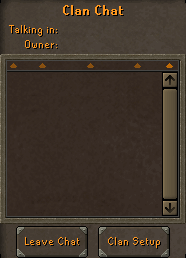
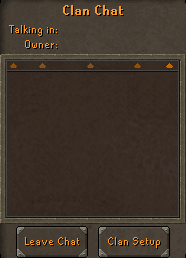
Adjusted scroll bar to take height as an input. Added scrollbar to the clan chat panel

Changed region(s): [[0.8602, 0.2791, 0.9677, 0.8372]]

diff --git a/src/ui/scroll-window.js b/src/ui/scroll-window.js
@@ -2,6 +2,25 @@ export class ScrollWindow extends Phaser.Scene {
     name = "";
     characterData;
 
+    // Input data
+    data = {
+        x: 0,
+        y: 0,
+        width: 0,
+        height: 0,
+        numColumns: 0,
+        padding: 0,
+        objects: [],
+    };
+
+    listHeight = 0;
+
+    // Images
+    scrollHeader;
+    scrollFooter;
+    scrollBackground;
+    scrollButton;
+
     constructor(name) {
         super("scroll-window" + name);
 
@@ -12,50 +31,101 @@ export class ScrollWindow extends Phaser.Scene {
         this.characterData = characterData;
     }
 
-    // Objects passed in need the setX, setY, setVisible functions available
-    addObjects(x, y, width, numColumns, objects) {
-        if (objects.length > 0) {
-            // Add scroll bar and button
-            let scrollBar = this.add
-                .image(width, 0, "scroll-bar")
-                .setDepth(2)
-                .setOrigin(0, 0);
-            let scrollHeaderHeight = 16;
-            let scrollButton = this.add
-                .image(width, scrollHeaderHeight, "scroll-button")
-                .setDepth(2)
-                .setOrigin(0, 0);
+    addObject(object) {
+        this.data.objects.push(object);
+    }
 
+    setValues(data) {
+        this.data.x = data.x;
+        this.data.y = data.y;
+        this.data.width = data.width;
+        this.data.height = data.height;
+        this.data.numColumns = data.numColumns;
+        this.data.padding = data.padding;
+        this.data.objects = data.objects;
+    }
+
+    // Objects passed in need the setX, setY, setVisible functions available
+    addObjects(data) {
+        if (data.objects.length > 0) {
+            this.setValues(data);
+            this.refresh();
+        }
+    }
+
+    refresh(data = this.data) {
+        this.setValues(data);
+
+        // Destroy previous scroll bar if it exists
+        if (this.scrollHeader != undefined) {
+            this.scrollHeader.destroy();
+            this.scrollFooter.destroy();
+            this.scrollBackground.destroy();
+            this.scrollButton.destroy();
+        }
+
+        // Add scroll bar images
+        this.scrollHeader = this.add
+            .image(data.width, 0, "scroll-header")
+            .setDepth(4)
+            .setOrigin(0, 0);
+        let scrollHeaderHeight = this.scrollHeader.displayHeight;
+
+        this.scrollFooter = this.add
+            .image(data.width, data.height - scrollHeaderHeight, "scroll-footer")
+            .setDepth(4)
+            .setOrigin(0, 0);
+
+        this.scrollBackground = this.add
+            .image(data.width, scrollHeaderHeight, "scroll-background")
+            .setDepth(3)
+            .setOrigin(0, 0);
+
+        this.scrollButton = this.add
+            .image(data.width, scrollHeaderHeight, "scroll-button")
+            .setDepth(4)
+            .setOrigin(0, 0);
+
+        // Set default scaling based on height input, may change below based on list height
+        this.scrollButton.displayHeight =
+            data.height - this.scrollHeader.displayHeight * 2;
+        this.scrollBackground.displayHeight =
+            data.height - this.scrollHeader.displayHeight * 2;
+
+        // Create scroll bar if needed
+        if (data.objects.length > 0) {
             // Position objects
             let xInit = 30,
                 yInit = 0,
                 row = 0,
                 column = 0;
-            let xDiff = (width - 20) / numColumns;
-            let yDiff = 35 + objects[0].displayHeight;
+            let xDiff = (data.width - 20) / data.numColumns;
+            let yDiff = data.padding + data.objects[0].displayHeight;
 
-            for (let i = 0; i < objects.length; i++) {
-                objects[i].setX(xInit + xDiff * column);
-                objects[i].setY(yInit + yDiff * row);
-                objects[i].setVisible(true);
+            for (let i = 0; i < data.objects.length; i++) {
+                data.objects[i].setX(xInit + xDiff * column);
+                data.objects[i].setY(yInit + yDiff * row);
+                data.objects[i].setVisible(true);
                 column++;
 
                 // Go to next row
-                if (column >= numColumns) {
+                if (column >= data.numColumns) {
                     column = 0;
                     row++;
                 }
             }
 
             // Stretch scroll button depending on # objects
-            let lastObj = objects[objects.length - 1];
-            let listHeight = lastObj.y + lastObj.displayHeight;
-            let scrollBarHeight = scrollBar.displayHeight;
+            let lastObj = data.objects[data.objects.length - 1];
+            this.listHeight = lastObj.y + lastObj.displayHeight;
 
             // Check if scrolling needed
-            if (listHeight > scrollBarHeight) {
-                // Scale the button image down
-                scrollButton.scaleY = scrollBarHeight / listHeight;
+            if (this.listHeight > data.height) {
+                // Scale the button image and background down
+                this.scrollButton.scaleY = data.height / this.listHeight;
+                this.scrollBackground.displayHeight =
+                    data.height - this.scrollHeader.displayHeight * 2;
+                let scrollButtonHeight = this.scrollButton.displayHeight;
 
                 // Shrink scroll distance from default 100 pixels
                 let delta = 30;
@@ -63,42 +133,60 @@ export class ScrollWindow extends Phaser.Scene {
                 // Make scroll button evenly divisible so it will fit properly at the top/bottom
                 let deltaOffset =
                     Math.floor(
-                        scrollBarHeight -
-                            scrollHeaderHeight * 2 -
-                            scrollButton.displayHeight
+                        data.height - scrollHeaderHeight * 2 - scrollButtonHeight
                     ) % delta;
                 let negDelta = -1 * delta + deltaOffset;
                 let posDelta = delta - deltaOffset;
 
                 // Scale the scroll speed of the objects based on list size
-                let objScrollSpeed = (1.2 * listHeight) / scrollBarHeight;
+                let objScrollSpeed = (1.2 * this.listHeight) / data.height;
 
                 // Move scroll button & objects
                 this.input.on("wheel", (pointer, gameObjects, deltaX, deltaY, deltaZ) => {
-                    if (deltaY > 0) {
-                        deltaY = posDelta;
-                    } else if (deltaY < 0) {
-                        deltaY = negDelta;
-                    }
+                    if (this.listHeight > this.data.height) {
+                        if (deltaY > 0) {
+                            deltaY = posDelta;
+                        } else if (deltaY < 0) {
+                            deltaY = negDelta;
+                        }
 
-                    // Check top/bottom bounds
-                    if (
-                        (deltaY < 0 && scrollButton.y + deltaY >= scrollHeaderHeight) ||
-                        (deltaY > 0 &&
-                            scrollButton.y + scrollButton.displayHeight + deltaY <=
-                                scrollBarHeight - scrollHeaderHeight)
-                    ) {
-                        // Scroll objects faster than scroll bar
-                        scrollButton.y += deltaY;
-                        objects.forEach((object) => {
-                            object.setY(object.y - deltaY * objScrollSpeed);
-                        });
+                        // Check top/bottom bounds
+                        if (
+                            (deltaY < 0 &&
+                                this.scrollButton.y + deltaY >= scrollHeaderHeight) ||
+                            (deltaY > 0 &&
+                                this.scrollButton.y + scrollButtonHeight + deltaY <=
+                                    this.scrollFooter.y)
+                        ) {
+                            // Scroll objects faster than scroll bar
+                            this.scrollButton.y += deltaY;
+                            data.objects.forEach((object) => {
+                                object.setY(object.y - deltaY * objScrollSpeed);
+                            });
+                        }
                     }
                 });
             }
 
             // Constrain view
-            this.cameras.main.setViewport(x, y, width + xInit, scrollBar.displayHeight);
+            this.cameras.main.setViewport(
+                data.x,
+                data.y,
+                data.width + xInit,
+                data.height
+            );
+        }
+    }
+
+    setVisible(isVisible) {
+        this.data.objects.forEach((obj) => {
+            obj.setVisible(isVisible);
+        });
+        if (this.scrollButton != undefined) {
+            this.scrollHeader.visible = isVisible;
+            this.scrollFooter.visible = isVisible;
+            this.scrollBackground.visible = isVisible;
+            this.scrollButton.visible = isVisible;
         }
     }
 }

diff --git a/src/ui/clan.js b/src/ui/clan.js
@@ -3,6 +3,7 @@ import { CONSTANTS } from "../constants/constants.js";
 // Clan members function as autoclickers
 export class Clan {
     scene;
+    scrollWindow;
 
     // Pointer to cookies, stores clan name and member names
     clanCookies;
@@ -13,10 +14,16 @@ export class Clan {
     clanNameText;
     clanMembers = [];
 
-    constructor(scene) {
+    constructor(scene, scrollWindow) {
         this.scene = scene;
+        this.scrollWindow = scrollWindow;
         this.characterData = scene.characterData;
         this.clanCookies = this.characterData.clan;
+
+        // Add self to clan members
+        if (this.clanCookies.members.length == 0) {
+            this.clanCookies.members.push(this.characterData.name);
+        }
 
         // Update and show clan info on startup
         this.refreshClan();
@@ -42,7 +49,7 @@ export class Clan {
             startY = 280,
             yDiff = 18;
         this.clanCookies.members.forEach((member, index) => {
-            let text = this.scene.add
+            let text = this.scrollWindow.add
                 .text(startX, startY + index * yDiff, member, {
                     font: "16px runescape",
                 })
@@ -72,12 +79,24 @@ export class Clan {
         // Hide if clan tab is not selected
         let show = this.scene.currentPanel == CONSTANTS.PANEL.CLAN;
         textObj.setVisible(show);
+
+        this.scrollWindow.addObject(textObj);
     }
 
     show(isVisible) {
+        this.scrollWindow.refresh({
+            x: 535,
+            y: 280,
+            width: 175,
+            height: 140,
+            numColumns: 1,
+            padding: 10,
+            objects: this.clanMembers,
+        });
         if (isVisible) {
             this.scene.currentPanel = CONSTANTS.PANEL.CLAN;
         }
+        this.scrollWindow.setVisible(isVisible);
         this.clanMembers.forEach((member) => {
             member.visible = isVisible;
         });

diff --git a/src/ui/dashboard.js b/src/ui/dashboard.js
@@ -2,6 +2,7 @@ import { CONSTANTS, FONTS } from "../constants/constants.js";
 import { Inventory } from "./inventory.js";
 import { Equipment } from "./equipment.js";
 import { Clan } from "./clan.js";
+import { ScrollWindow } from "./scroll-window.js";
 import { calcLevel } from "../utilities.js";
 
 export class DashboardScene extends Phaser.Scene {
@@ -49,6 +50,7 @@ export class DashboardScene extends Phaser.Scene {
         button: {},
         panel: {},
         obj: {},
+        scrollWindow: {},
     };
 
     // Save data
@@ -350,12 +352,30 @@ export class DashboardScene extends Phaser.Scene {
             .on("pointerdown", () => {
                 this.showClanChat(true);
             });
+
+        // Add scrollable window for clan members
+        if (!Object.keys(this.clan.scrollWindow).length) {
+            this.clan.scrollWindow = new ScrollWindow("clans");
+            this.scene.add(
+                "scroll-window",
+                this.clan.scrollWindow,
+                true,
+                this.characterData
+            );
+        }
+
         // Clear out and reinstatiate clan members
         if (Object.entries(this.clan.obj).length) {
             this.clan.obj.destroy();
         }
-        this.clan.obj = new Clan(this);
+        this.clan.obj = new Clan(this, this.clan.scrollWindow);
         this.showClanChat(false);
+
+        // Scene destructor
+        this.events.on("shutdown", () => {
+            // Remove scroll window scene
+            this.clan.scrollWindow.setVisible(false);
+        });
     }
 
     showSkills(isVisible) {

diff --git a/src/scenes/load.js b/src/scenes/load.js
@@ -125,7 +125,9 @@ export class LoadScene extends Phaser.Scene {
         this.load.image("clan-panel", "src/assets/ui/ClanPanel.png");
         this.load.image("clan-button", "src/assets/ui/buttons/ClanButton.png");
         this.load.image("right-click-menu", "src/assets/ui/RightClickMenu.png");
-        this.load.image("scroll-bar", "src/assets/ui/ScrollBar.png");
+        this.load.image("scroll-background", "src/assets/ui/ScrollBackground.png");
+        this.load.image("scroll-header", "src/assets/ui/ScrollHeader.png");
+        this.load.image("scroll-footer", "src/assets/ui/ScrollFooter.png");
         this.load.image("scroll-button", "src/assets/ui/ScrollButton.png");
 
         // Load all targets in target manifest

diff --git a/src/scenes/shop.js b/src/scenes/shop.js
@@ -250,8 +250,16 @@ export class ShopScene extends Phaser.Scene {
             }
         }
 
-        // Attach to the correct columns in the scroll window
-        this.scrollWindow.addObjects(scrollX, scrollY, 450, 3, this.shopIcons);
+        // Attach to the scroll window
+        this.scrollWindow.addObjects({
+            x: scrollX,
+            y: scrollY,
+            width: 450,
+            height: 214,
+            numColumns: 3,
+            padding: 35,
+            objects: this.shopIcons,
+        });
         this.loadingText.visible = false;
     }
 
